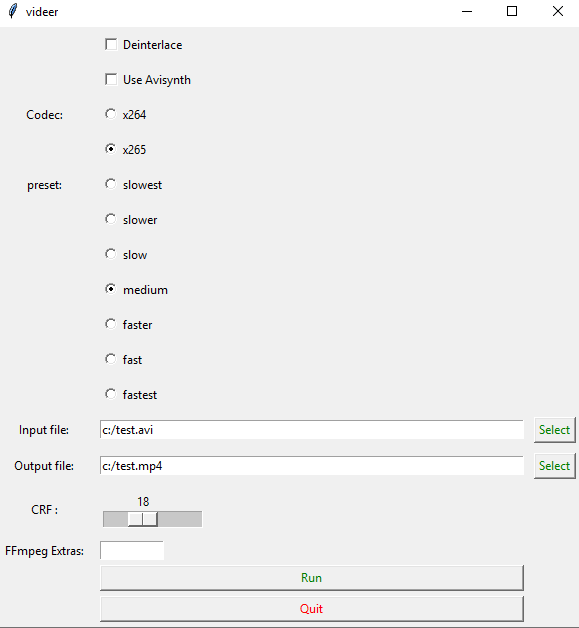
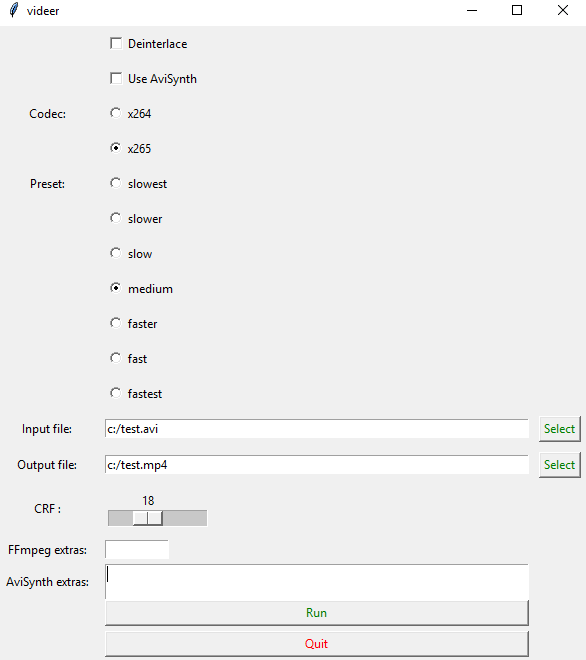
avisynth extras

diff --git a/videer.py b/videer.py
@@ -9,6 +9,10 @@ class CreateAvs():
             avsfile.write('\n')
             avsfile.write('ConvertToYV24(matrix="rec709")')
 
+            if app.avisynth_extras.get("1.0",tk.END).strip():
+                avsfile.write('\n')
+                avsfile.write(app.avisynth_extras.get("1.0",tk.END))
+
             if app.deinterlace_var.get():
                 avsfile.write('\n')
                 avsfile.write('QTGMC(Preset="Slower")')
@@ -40,7 +44,7 @@ class Application(tk.Frame):
 
         self.use_avisynth_var = tk.BooleanVar()
         self.use_avisynth_var.set(False)
-        self.use_avisynth_button = tk.Checkbutton(self, text="Use Avisynth", variable=self.use_avisynth_var)
+        self.use_avisynth_button = tk.Checkbutton(self, text="Use AviSynth", variable=self.use_avisynth_var)
         self.use_avisynth_button.grid(row=1, column=1, sticky='w', pady=5, padx=5)
 
         self.deinterlace_var = tk.BooleanVar()
@@ -120,11 +124,18 @@ class Application(tk.Frame):
         self.extras = tk.Entry(self, textvariable=self.extras_value, width=10)
         self.extras.grid(row=14, column=1, sticky='W', pady=5, padx=5)
 
+        self.avisynth_extras_label = tk.Label(self)
+        self.avisynth_extras_label["text"] = "AviSynth extras: "
+        self.avisynth_extras_label.grid(row=15, column=0, sticky='', padx=5)
+        self.avisynth_extras = tk.Text(self, height=2, width=30)
+        self.avisynth_extras.grid(row=15, column=1, sticky='WE', padx=5)
+        #self.avisynth_extras.insert(tk.END, "Just a text Widget\nin two lines\n")
+
         self.run = tk.Button(self, text="Run", fg="green", command=lambda: self.runfx())
-        self.run.grid(row=15, column=1, sticky='WE', padx=5)
+        self.run.grid(row=16, column=1, sticky='WE', padx=5)
 
         self.quit = tk.Button(self, text="Quit", fg="red", command=self.master.destroy)
-        self.quit.grid(row=16, column=1, sticky='WE', padx=5, pady=(5))
+        self.quit.grid(row=17, column=1, sticky='WE', padx=5, pady=(5))
 
 if __name__ == "__main__":
     root = tk.Tk()
